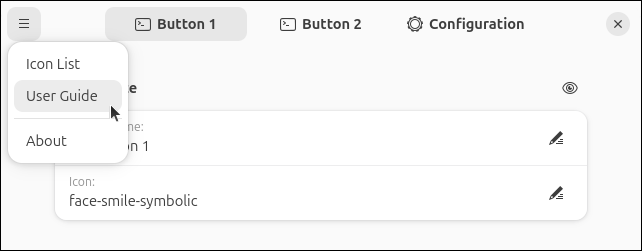
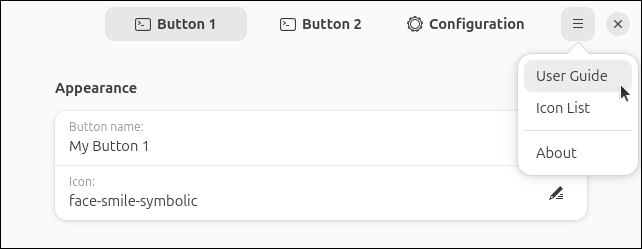
updated user guide

diff --git a/docs/index.md b/docs/index.md
@@ -32,7 +32,7 @@ To configure the extension, open extension preferences through the extension man
 gnome-extensions prefs custom-command-toggle@storageb.github.com
 ```
 
-From the preferences window, use the top-left menu for quick access to this User Guide, the Icon List, and other useful information.
+From the preferences window, use the top menu for quick access to this User Guide, the Icon List, and other useful information.
 
 ![screenshot-menu](screenshots/screenshot-menu-12.png)
 

diff --git a/docs/changelog.md b/docs/changelog.md
@@ -23,7 +23,7 @@
 
 ---
 
-## Version 10 (2025-09-18)
+## Version 10 (2025-09-08)
 
 **New Features**
 
@@ -38,7 +38,7 @@
 
 ---
 
-## Version 09 (2025-09-18)
+## Version 09 (2025-03-07)
 
 **New Features**
 
@@ -64,7 +64,7 @@
 
 ---
 
-## Version 07 (2025-09-18)
+## Version 07 (2024-09-17)
 
 **New Features**
 
